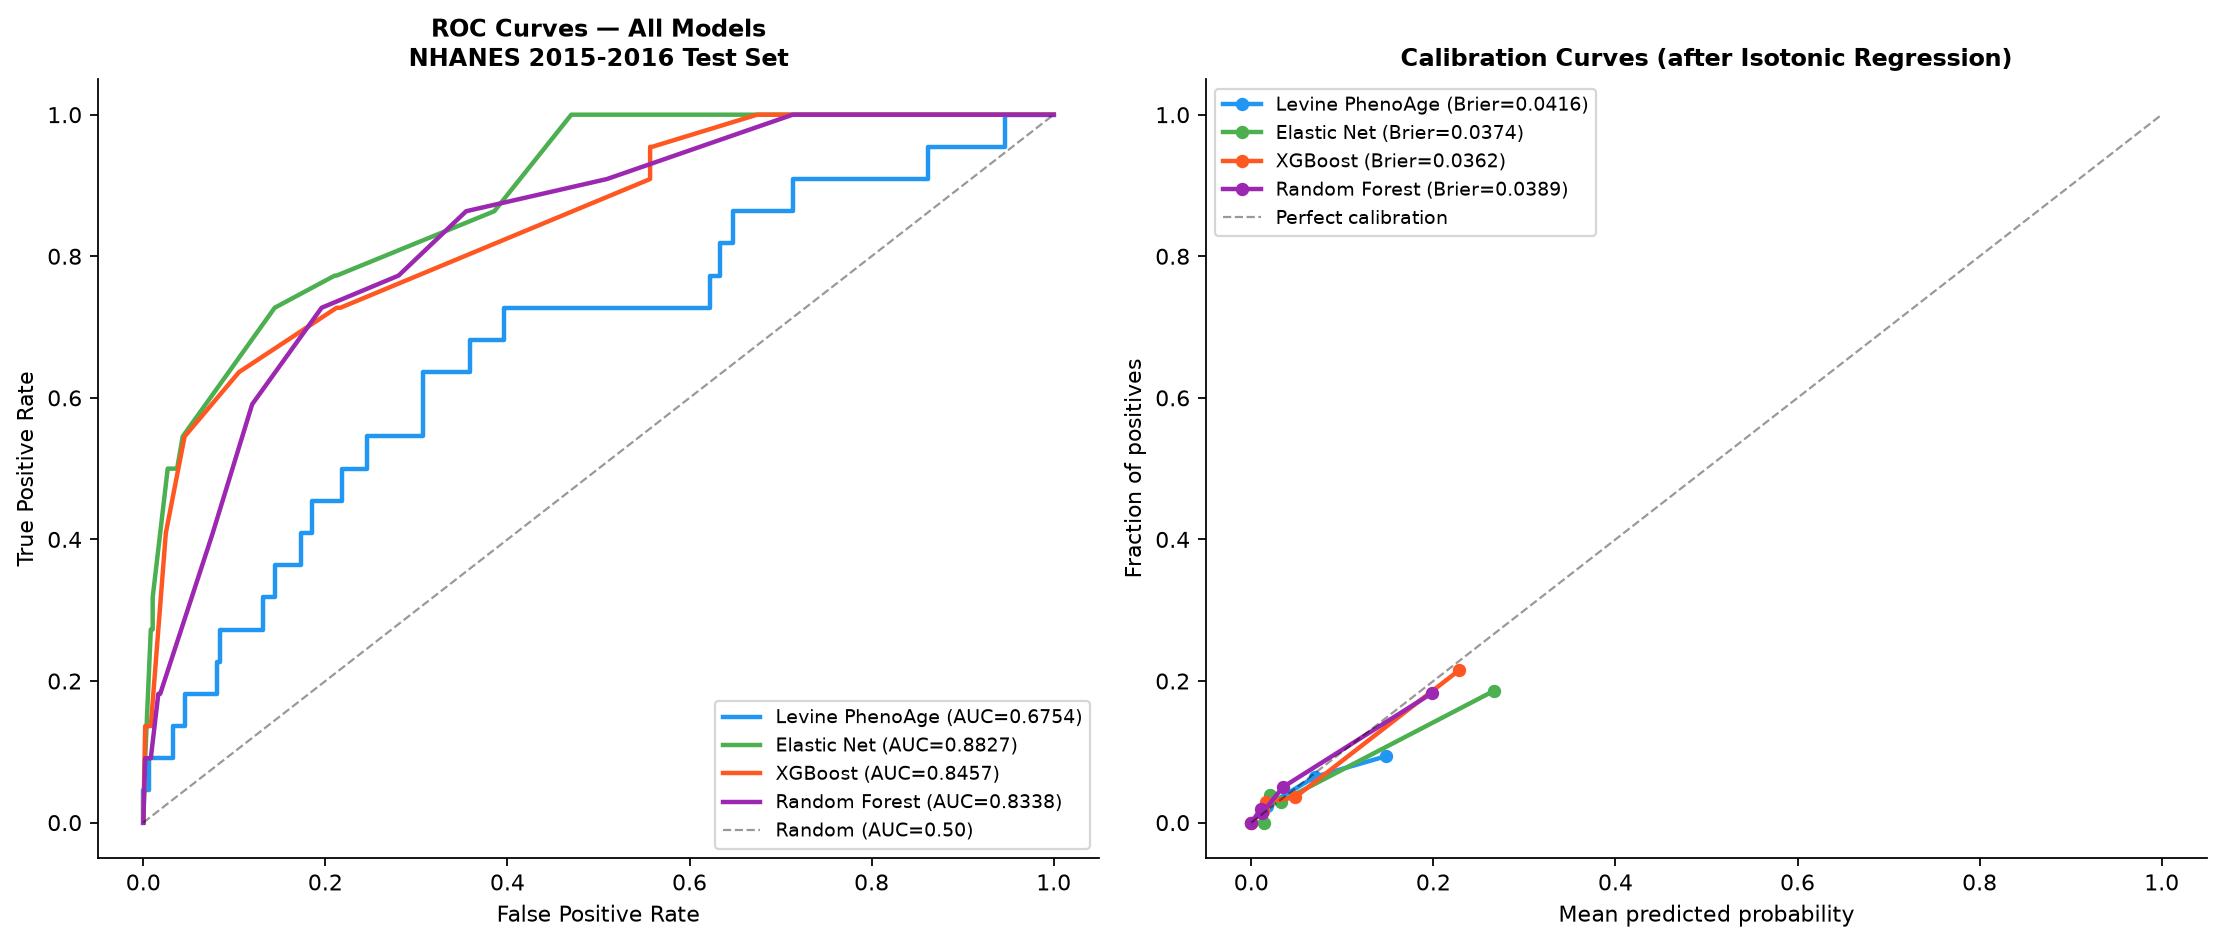
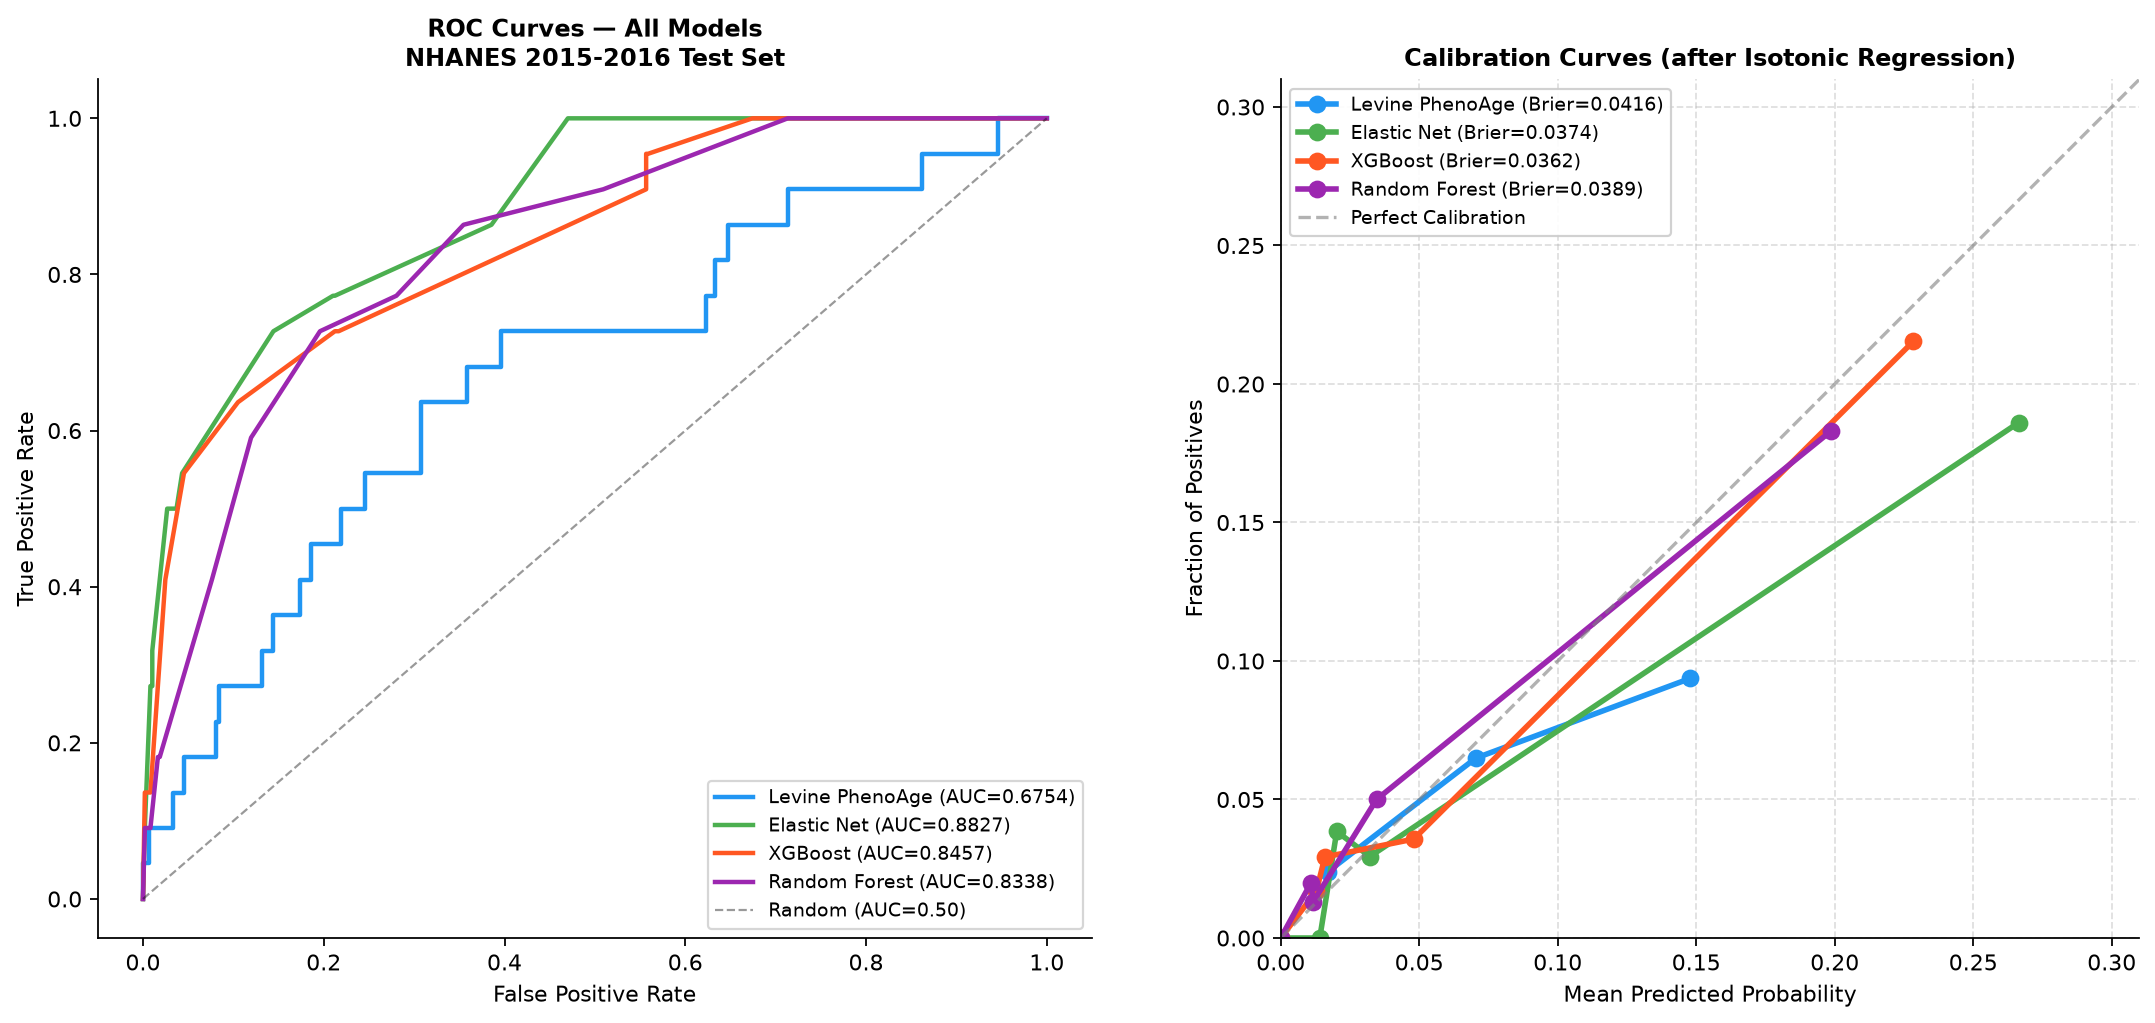
Improve calibration curve readability: square axes, grid, zoomed scale
- Set equal aspect ratio so the perfect-calibration diagonal is 45°
- Added dashed grid for easier value reading
- Thicker lines (2.5) and larger markers (7) for clarity
- Axis limits auto-zoom to actual data range (~0–0.30)
- Regenerated roc_curves_all_models.png

diff --git a/Scripts/phase4_10_ml_comparison.py b/Scripts/phase4_10_ml_comparison.py
@@ -573,7 +573,7 @@ else:
 # ═══════════════════════════════════════════════════════════════════════════════
 from sklearn.metrics import roc_curve
 
-fig, axes = plt.subplots(1, 2, figsize=(14, 6))
+fig, axes = plt.subplots(1, 2, figsize=(14, 6.5))
 
 # Panel A — ROC curves
 ax = axes[0]
@@ -601,25 +601,29 @@ for prob, lbl, col in zip(cal_probs, roc_labels, colors_roc):
     try:
         pt, pp = calibration_curve(y_test, prob, n_bins=5, strategy="quantile")
         brier  = results[lbl]["brier"]
-        ax2.plot(pp, pt, "o-", color=col, linewidth=2, markersize=5,
+        ax2.plot(pp, pt, "o-", color=col, linewidth=2.5, markersize=7,
                  label=f"{lbl} (Brier={brier:.4f})")
         all_pp2.extend(pp); all_pt2.extend(pt)
     except Exception:
         pass
 
-# Zoom to actual data range so the curves fill the panel
+# Zoom to actual data range — equal limits so diagonal is truly 45°
 if all_pp2 and all_pt2:
     ax_max = max(max(all_pp2), max(all_pt2)) * 1.15
-    ax_max = min(round(ax_max, 2), 1.0)
+    ax_max = min(float(f"{ax_max:.2f}"), 1.0)
 else:
     ax_max = 1.0
-ax2.plot([0, ax_max], [0, ax_max], "k--", alpha=0.4, linewidth=1, label="Perfect calibration")
+
+ax2.plot([0, ax_max], [0, ax_max], color="gray", linestyle="--",
+         linewidth=1.5, alpha=0.6, label="Perfect Calibration")
 ax2.set_xlim(0, ax_max)
 ax2.set_ylim(0, ax_max)
-ax2.set_xlabel("Mean predicted probability", fontsize=10)
-ax2.set_ylabel("Fraction of positives", fontsize=10)
+ax2.set_aspect("equal", adjustable="box")
+ax2.set_xlabel("Mean Predicted Probability", fontsize=10)
+ax2.set_ylabel("Fraction of Positives", fontsize=10)
 ax2.set_title("Calibration Curves (after Isotonic Regression)", fontsize=11, fontweight="bold")
-ax2.legend(fontsize=8.5)
+ax2.legend(fontsize=8.5, loc="upper left", framealpha=0.9)
+ax2.grid(True, linestyle="--", alpha=0.4)
 ax2.spines[["top","right"]].set_visible(False)
 
 plt.tight_layout()